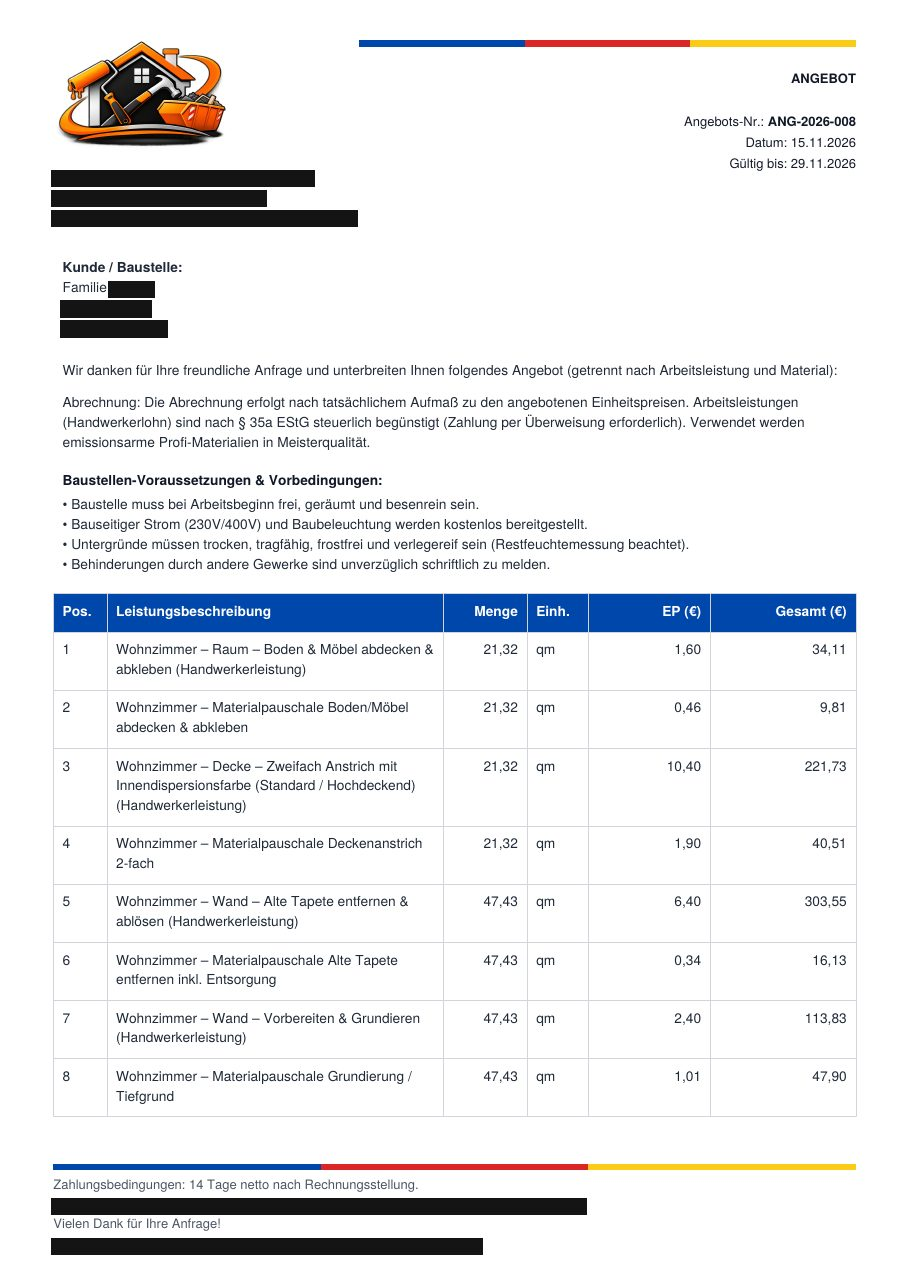
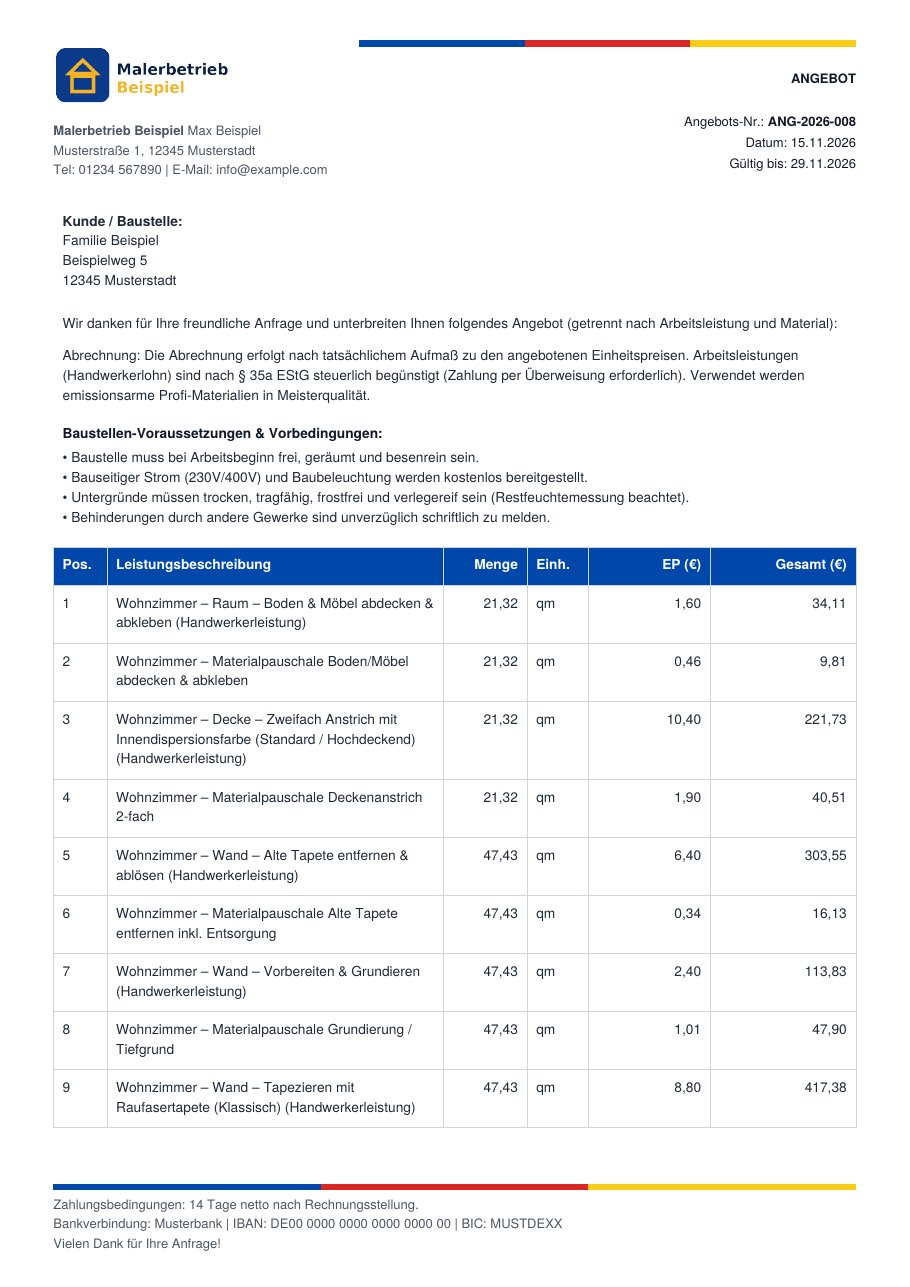
Hero: Handy auf der Baustelle statt geschwärzter Rechnung, Beispielbilder ohne Schwärzung
Claude-Session: https://claude.ai/code/session_011j1Tf21zhRB3BkWjsa43RJ

diff --git a/index.html b/index.html
@@ -91,6 +91,32 @@ footer{padding:28px 0;text-align:center;font-size:.88rem;color:var(--leise)}
 .zeitleiste .karte{border-top:4px solid var(--gelb)}
 .jahr{font-size:1.6rem;font-weight:800;color:var(--navy)}
 .quelle{font-size:.85rem;color:var(--leise);margin-top:14px}
+
+/* ---- Bühne mit Handy ---- */
+.buehne{position:relative;height:560px;border-radius:24px;background:linear-gradient(180deg,#dfeafa 0%,#eef4fc 55%,#e9e3d6 55%,#e4ddcd 100%);overflow:hidden;border:1px solid var(--linie)}
+.buehne svg.szene{position:absolute;inset:0;width:100%;height:100%}
+.handy{position:absolute;left:50%;top:44px;transform:translateX(-50%) rotate(-4deg);width:236px;height:470px;background:#0b1220;border-radius:38px;padding:12px;box-shadow:0 30px 60px rgba(10,31,68,.35),inset 0 0 0 2px #2a3550}
+.handy::before{content:"";position:absolute;top:18px;left:50%;transform:translateX(-50%);width:70px;height:18px;border-radius:10px;background:#0b1220;z-index:3}
+.bildschirm{position:relative;width:100%;height:100%;border-radius:28px;background:#0f1d3a;overflow:hidden;color:#fff;font-size:13px}
+.bs{position:absolute;inset:0;padding:44px 16px 16px;display:flex;flex-direction:column;gap:10px;opacity:0;animation:wechsel 12s infinite}
+.bs:nth-child(2){animation-delay:4s}.bs:nth-child(3){animation-delay:8s}
+@keyframes wechsel{0%{opacity:0;transform:translateY(8px)}4%{opacity:1;transform:none}30%{opacity:1}34%{opacity:0}100%{opacity:0}}
+.bs .kl{font-size:11px;color:#9fb3d9}
+.bs .gr{font-size:17px;font-weight:700}
+.bs .feld{background:#fff;color:#1f2a3d;border-radius:10px;padding:9px 11px;font-size:12.5px}
+.bs .btn{margin-top:auto;border-radius:12px;padding:13px;text-align:center;font-weight:700;font-size:14px}
+.bs .gruen{background:#22a05a}.bs .gelb2{background:var(--gelb);color:var(--navy)}
+.bs .chip{display:inline-block;background:#1d3363;border-radius:999px;padding:5px 10px;font-size:11.5px}
+.bs .foto{height:54px;border-radius:8px;background:linear-gradient(135deg,#c9d6ea,#8fa6cf)}
+.toast{position:absolute;background:#fff;border-radius:14px;padding:10px 14px;box-shadow:0 10px 30px rgba(10,31,68,.18);font-size:14px;font-weight:600;color:var(--navy);display:flex;gap:10px;align-items:center;opacity:0;animation:popp 12s infinite}
+.toast .ic{width:28px;height:28px;border-radius:8px;display:flex;align-items:center;justify-content:center;flex:0 0 28px}
+.t1{left:18px;top:70px}.t2{right:16px;top:210px;animation-delay:4s}.t3{left:24px;bottom:60px;animation-delay:8s}
+@keyframes popp{0%{opacity:0;transform:scale(.9) translateY(6px)}3%{opacity:1;transform:none}28%{opacity:1}33%{opacity:0}100%{opacity:0}}
+.etikett{position:absolute;right:26px;bottom:46px;background:#fff;border-radius:10px;padding:10px;box-shadow:0 8px 24px rgba(10,31,68,.15);display:flex;gap:10px;align-items:center;transform:rotate(3deg)}
+.etikett small{display:block;font-size:11px;color:var(--leise)}
+.etikett b{font-size:13px;color:var(--navy)}
+@media (max-width:860px){.buehne{height:520px}.t1{left:8px}.t2{right:8px}}
+@media (prefers-reduced-motion:reduce){.bs,.toast{animation:none}.bs:first-child,.toast.t1{opacity:1}}
 </style>
 <script type="application/ld+json">{"@context":"https://schema.org","@type":"SoftwareApplication","name":"MG Betriebsmanager","applicationCategory":"BusinessApplication","operatingSystem":"Windows 10, Windows 11","description":"Handwerkersoftware für Maler, Dach & Wand, Hausmeister und Entrümpelung: Aufmaß, Angebot, E-Rechnung, Zeiterfassung per Handy, Lager mit QR-Etiketten.","offers":{"@type":"Offer","price":"790","priceCurrency":"EUR"},"publisher":{"@type":"Organization","name":"MG Commerce","address":{"@type":"PostalAddress","streetAddress":"Im Flieder 4","postalCode":"71554","addressLocality":"Weissach im Tal","addressCountry":"DE"},"telephone":"+49 179 5498071"}}</script>
 </head>
@@ -130,16 +156,34 @@ footer{padding:28px 0;text-align:center;font-size:.88rem;color:var(--leise)}
 <span><span class="haken"><svg width="12" height="12" viewBox="0 0 24 24" fill="none" stroke="#2e7d32" stroke-width="3" aria-hidden="true"><path d="M5 12l5 5L20 7"/></svg></span>Persönlich aus der Region</span>
 </div>
 </div>
-<div class="bild">
-<img src="bilder/beispiel-angebot-1.jpg" alt="Beispiel-Angebot aus dem MG Betriebsmanager, Namen geschwärzt">
-<small>Ein echtes Angebot aus dem Programm – Namen geschwärzt</small>
+<div class="buehne" aria-label="Handy auf der Baustelle: einstempeln, Material per QR buchen, Tagesrapport senden" role="img">
+<svg class="szene" viewBox="0 0 520 560" preserveAspectRatio="xMidYMid slice" aria-hidden="true">
+<circle cx="440" cy="70" r="34" fill="#f5b324" opacity=".85"/>
+<g fill="none" stroke="#9aa9c2" stroke-width="4"><path d="M40 308V120M120 308V120M40 150H120M40 200H120M40 250H120M40 150L120 200M40 200L120 250"/></g>
+<path d="M60 308V170l90-70 90 70v138z" fill="#fbfaf7" stroke="#c9c1ae" stroke-width="3"/>
+<path d="M45 178l105-88 105 88" fill="none" stroke="#b5452f" stroke-width="10" stroke-linejoin="round"/>
+<rect x="88" y="200" width="40" height="40" fill="#cfe0f5" stroke="#c9c1ae" stroke-width="3"/>
+<rect x="172" y="200" width="40" height="40" fill="#cfe0f5" stroke="#c9c1ae" stroke-width="3"/>
+<rect x="132" y="252" width="36" height="56" fill="#8a6a4a"/>
+<rect x="200" y="150" width="56" height="12" rx="6" fill="#f5b324" transform="rotate(-30 228 156)"/><rect x="226" y="156" width="6" height="40" fill="#5a6474" transform="rotate(-30 228 156)"/>
+<rect x="330" y="250" width="150" height="60" rx="6" fill="#d7cfbd"/><rect x="342" y="226" width="34" height="28" rx="4" fill="#ffffff" stroke="#b9b0a0"/><rect x="384" y="214" width="40" height="40" rx="4" fill="#e9eef7" stroke="#b9b0a0"/><rect x="432" y="230" width="34" height="24" rx="4" fill="#ffffff" stroke="#b9b0a0"/>
+</svg>
+<div class="toast t1"><span class="ic" style="background:#e3f2e6"><svg width="16" height="16" viewBox="0 0 24 24" fill="none" stroke="#22a05a" stroke-width="3" aria-hidden="true"><path d="M5 12l5 5L20 7"/></svg></span>Eingestempelt · 7:02 Uhr</div>
+<div class="toast t2"><span class="ic" style="background:#eef3fb"><svg width="16" height="16" viewBox="0 0 24 24" fill="none" stroke="#0b3a8c" stroke-width="2.4" aria-hidden="true"><path d="M21 8l-9-5-9 5 9 5 9-5z"/><path d="M3 8v8l9 5 9-5V8"/></svg></span>3 Rollen auf Baustelle gebucht</div>
+<div class="toast t3"><span class="ic" style="background:#fff4d9"><svg width="16" height="16" viewBox="0 0 24 24" fill="none" stroke="#b7860b" stroke-width="2.4" aria-hidden="true"><path d="M14 3H6a2 2 0 0 0-2 2v14a2 2 0 0 0 2 2h12a2 2 0 0 0 2-2V9z"/><path d="M14 3v6h6"/></svg></span>Rapport ist im Büro</div>
+<div class="etikett"><svg width="46" height="46" viewBox="0 0 45 45" aria-hidden="true"><rect width="45" height="45" fill="#fff"/><g fill="#0a1f44"><rect x="0" y="0" width="5" height="5"/><rect x="5" y="0" width="5" height="5"/><rect x="10" y="0" width="5" height="5"/><rect x="15" y="0" width="5" height="5"/><rect x="30" y="0" width="5" height="5"/><rect x="35" y="0" width="5" height="5"/><rect x="40" y="0" width="5" height="5"/><rect x="0" y="5" width="5" height="5"/><rect x="15" y="5" width="5" height="5"/><rect x="30" y="5" width="5" height="5"/><rect x="40" y="5" width="5" height="5"/><rect x="0" y="10" width="5" height="5"/><rect x="5" y="10" width="5" height="5"/><rect x="10" y="10" width="5" height="5"/><rect x="15" y="10" width="5" height="5"/><rect x="20" y="10" width="5" height="5"/><rect x="25" y="10" width="5" height="5"/><rect x="30" y="10" width="5" height="5"/><rect x="35" y="10" width="5" height="5"/><rect x="40" y="10" width="5" height="5"/><rect x="0" y="15" width="5" height="5"/><rect x="15" y="15" width="5" height="5"/><rect x="30" y="15" width="5" height="5"/><rect x="0" y="20" width="5" height="5"/><rect x="15" y="20" width="5" height="5"/><rect x="30" y="20" width="5" height="5"/><rect x="0" y="25" width="5" height="5"/><rect x="5" y="25" width="5" height="5"/><rect x="10" y="25" width="5" height="5"/><rect x="15" y="25" width="5" height="5"/><rect x="20" y="25" width="5" height="5"/><rect x="25" y="25" width="5" height="5"/><rect x="30" y="25" width="5" height="5"/><rect x="35" y="25" width="5" height="5"/><rect x="40" y="25" width="5" height="5"/><rect x="0" y="30" width="5" height="5"/><rect x="15" y="30" width="5" height="5"/><rect x="30" y="30" width="5" height="5"/><rect x="40" y="30" width="5" height="5"/><rect x="0" y="35" width="5" height="5"/><rect x="15" y="35" width="5" height="5"/><rect x="30" y="35" width="5" height="5"/><rect x="40" y="35" width="5" height="5"/><rect x="0" y="40" width="5" height="5"/><rect x="5" y="40" width="5" height="5"/><rect x="10" y="40" width="5" height="5"/><rect x="15" y="40" width="5" height="5"/><rect x="20" y="40" width="5" height="5"/><rect x="25" y="40" width="5" height="5"/><rect x="30" y="40" width="5" height="5"/><rect x="35" y="40" width="5" height="5"/><rect x="40" y="40" width="5" height="5"/></g></svg><div><small>MAT-001</small><b>Abdeckband 30 mm</b></div></div>
+<div class="handy"><div class="bildschirm">
+<div class="bs"><div class="kl">Mittwoch, 7:02</div><div class="gr">Guten Morgen, Max</div><div class="feld">Heute: Wohnzimmer &amp; Flur<br><span style="color:#5a6474">Beispielweg 5</span></div><span class="chip">Pausen werden automatisch abgezogen</span><div class="btn gruen">Jetzt einstempeln</div></div>
+<div class="bs"><div class="kl">QR-Etikett gescannt</div><div class="gr">Abdeckband 30 mm</div><div class="feld">Baustelle: Wohnzimmer &amp; Flur</div><div class="feld">Aus: Sprinter · Menge: 3 Rollen</div><div class="btn gelb2">Entnahme buchen</div></div>
+<div class="bs"><div class="kl">Tagesrapport</div><div class="gr">7,5 Stunden</div><div class="feld">Decke gestrichen, Raufaser im Wohnzimmer fertig</div><div style="display:grid;grid-template-columns:1fr 1fr;gap:6px"><div class="foto"></div><div class="foto" style="background:linear-gradient(135deg,#f3e5c0,#d9b867)"></div></div><div class="btn gruen">An das Büro senden</div></div>
+</div></div>
 </div>
 </div>
 </section>
 
 <section id="video" style="padding:56px 0 24px">
 <div class="wrap" style="max-width:900px">
-<div class="titel" style="margin-bottom:20px"><h2>In 40 Sekunden: von der Anfrage zum Angebot</h2><p>So sieht es im Programm aus – Namen unkenntlich gemacht.</p></div>
+<div class="titel" style="margin-bottom:20px"><h2>In 40 Sekunden: von der Anfrage zum Angebot</h2><p>So sieht es im Programm aus.</p></div>
 <video controls preload="metadata" playsinline poster="bilder/video-vorschau.jpg" style="width:100%;height:auto;border-radius:16px;border:1px solid var(--linie);box-shadow:0 12px 40px rgba(10,31,68,.10);background:#0a1f44">
 <source src="bilder/video-anfrage-angebot.mp4" type="video/mp4">
 Ihr Browser kann das Video nicht abspielen – <a href="bilder/video-anfrage-angebot.mp4">hier herunterladen</a>.
@@ -191,13 +235,13 @@ Ihr Browser kann das Video nicht abspielen – <a href="bilder/video-anfrage-ang
 
 <section id="beispiel">
 <div class="wrap">
-<div class="titel"><h2>Ein Beispiel: Wohnzimmer und Flur streichen</h2><p>Echt mit dem Programm erstellt, Namen und Adressen geschwärzt. Vom Anruf bis zum fertigen Angebot vergehen keine 15 Minuten.</p></div>
+<div class="titel"><h2>Ein Beispiel: Wohnzimmer und Flur streichen</h2><p>Echt mit dem Programm erstellt – für einen erfundenen Beispielbetrieb. Vom Anruf bis zum fertigen Angebot vergehen keine 15 Minuten.</p></div>
 <div class="raster r3 galerie">
 <figure><figcaption>1 · Aufmaß mit Materialbedarf</figcaption><a href="bilder/beispiel-aufmass.jpg"><img src="bilder/beispiel-aufmass.jpg" alt="Beispiel-Aufmaß für Wohnzimmer und Flur mit Flächen und Materialbedarf" loading="lazy"></a></figure>
 <figure><figcaption>2 · Angebot mit Ihren Preisen</figcaption><a href="bilder/beispiel-angebot-1.jpg"><img src="bilder/beispiel-angebot-1.jpg" alt="Beispiel-Angebot Seite 1 mit Positionen" loading="lazy"></a></figure>
 <figure><figcaption>3 · Summe und Steuerhinweis</figcaption><a href="bilder/beispiel-angebot-2.jpg"><img src="bilder/beispiel-angebot-2.jpg" alt="Beispiel-Angebot Seite 2 mit Summe und Lohnanteil" loading="lazy"></a></figure>
 </div>
-<p class="fussnote">Beispielpreise eines Testbetriebs. Ihr Logo, Ihr Briefkopf und Ihre Preise stellen Sie selbst ein. Bild antippen zum Vergrößern.</p>
+<p class="fussnote">Beispielbetrieb mit erfundenen Namen und Beispielpreisen. Ihr Logo, Ihr Briefkopf und Ihre Preise stellen Sie selbst ein. Bild antippen zum Vergrößern.</p>
 </div>
 </section>
 
